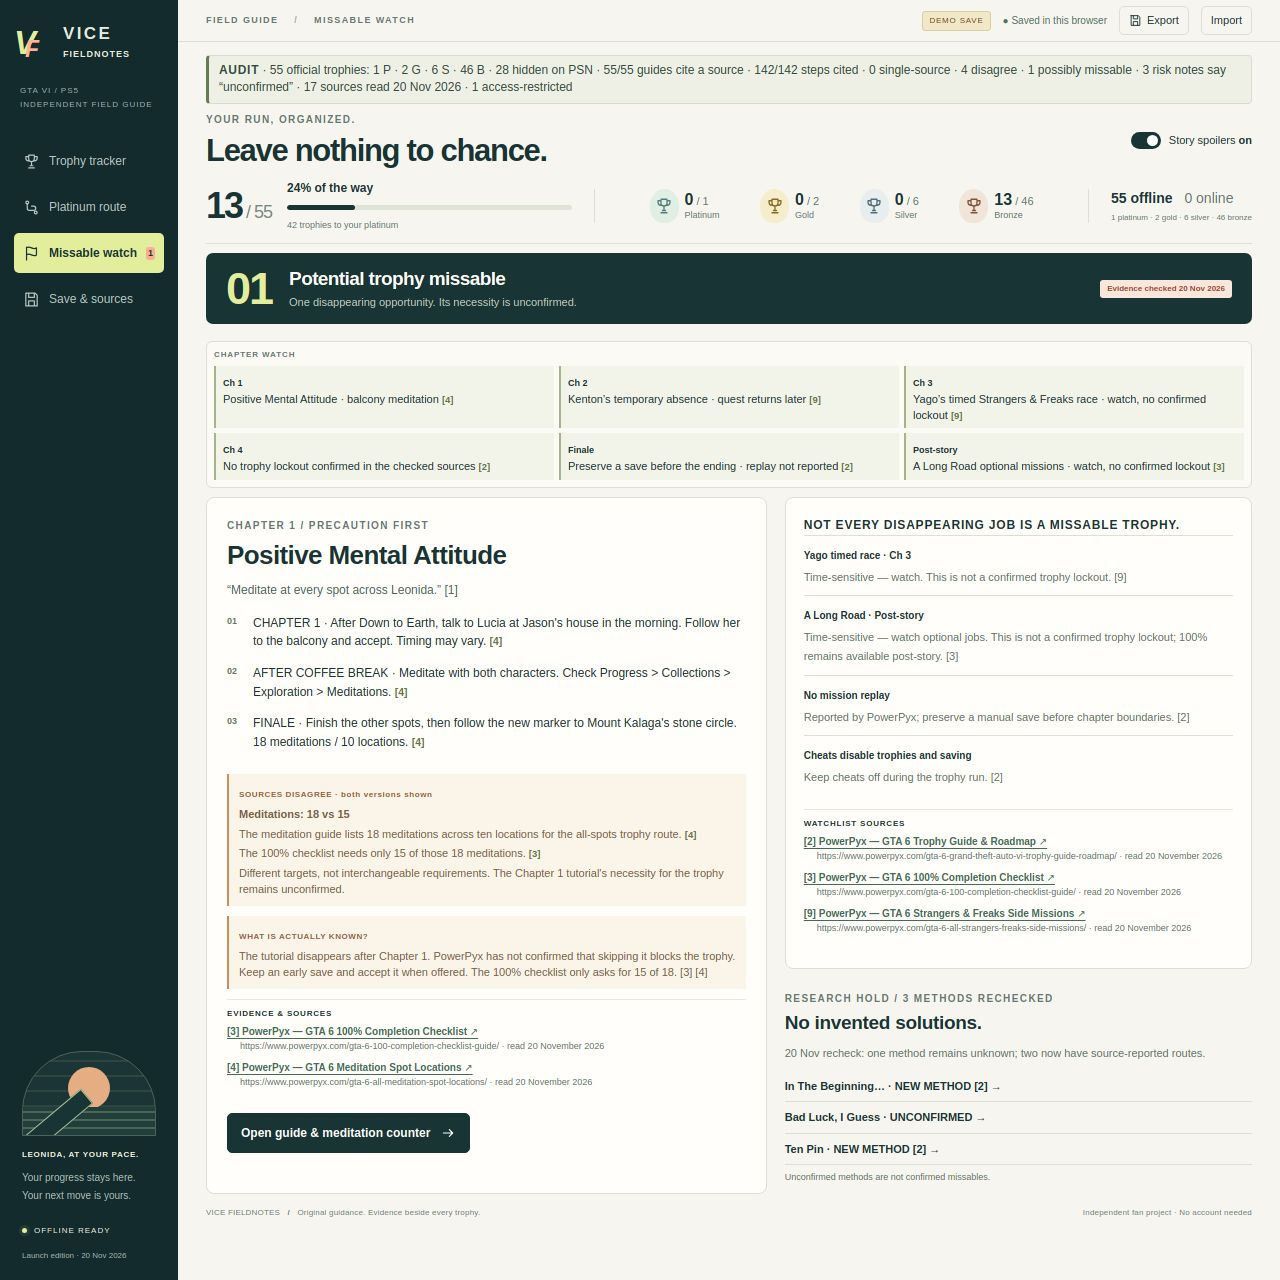
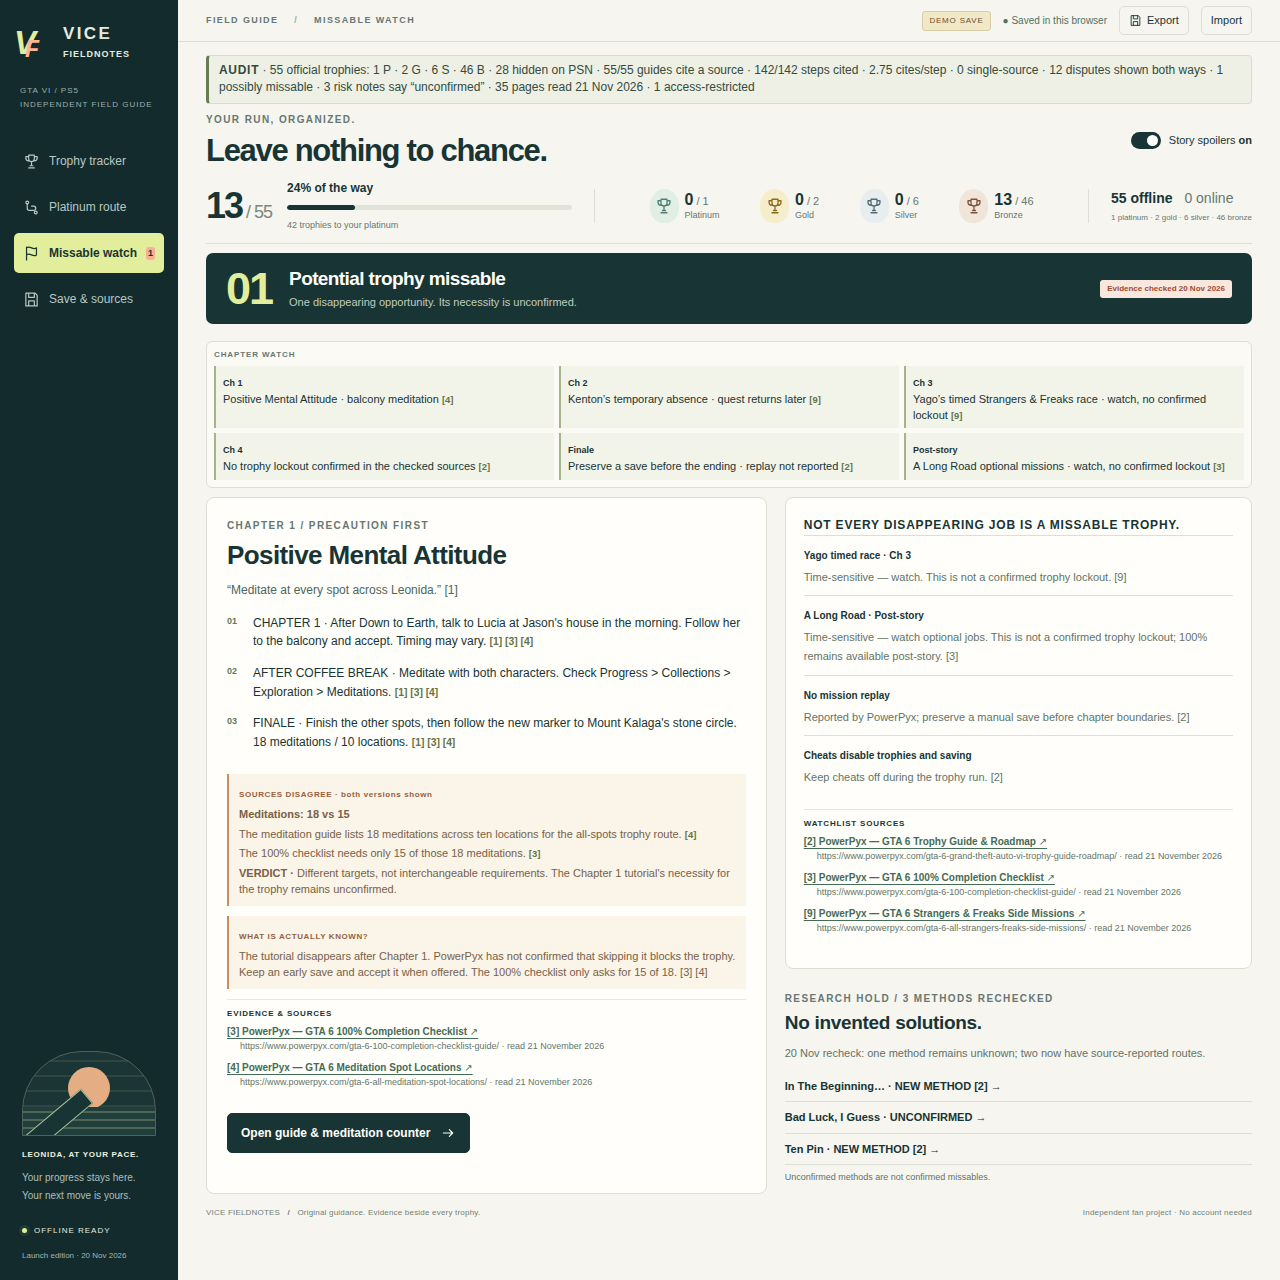
Finish R3 trophy guide evidence pass

diff --git a/app/app.js b/app/app.js
@@ -23,7 +23,7 @@ let view = location.hash.slice(1).split('/')[0] || 'tracker';
 let selected = Number(location.hash.split('/')[1]) || 28;
 let kind = 'all', grade = 'all', earnedFilter = 'all', query = '';
 let toastTimer;
-const sourceOrder = ['official','roadmap','completion','meditation','range','drone','races','cards','strangers','andy','andyFinal','billy','tyrone','bret','banks','garages','moses','landmarks'];
+const sourceOrder = ['official','roadmap','completion','meditation','range','drone','races','cards','strangers','andy','andyFinal','billy','tyrone','bret','banks','garages','moses','landmarks','outputlag','keengamer','checklists','checkMeditation','pcgamer','gamesradar','gtaside','techwiser','gtaboom','pixelforge','pushsquare','challenges','bankJobs','cardSets','gtabase','gtabase100','gtabaseStrangers','gtawiki'];
 
 function notify(message) {
   const toast = document.querySelector('#toast');
@@ -46,7 +46,7 @@ function citations(keys = []) { return [...keys].sort((a,b) => sourceNumber(a)-s
 function sourceLink(key) {
   const source = data.sources[key];
   const title = source.name.replace(' · ', ' — GTA 6 ');
-  return `<a href="${escape(source.url)}" target="_blank" rel="noopener noreferrer">[${sourceNumber(key)}] ${escape(title)} ↗</a><span>${escape(source.url)} · ${key === 'official' ? 'checked 20 November 2026; HTTP 403, kit metadata retained' : 'read 20 November 2026'}</span>`;
+  return `<a href="${escape(source.url)}" target="_blank" rel="noopener noreferrer">[${sourceNumber(key)}] ${escape(title)} ↗</a><span>${escape(source.url)} · ${key === 'official' ? 'checked 21 November 2026; HTTP 403, kit metadata retained' : 'read 21 November 2026'}</span>`;
 }
 function sourceEntries(keys) {
   return [...keys].sort((a,b) => sourceNumber(a)-sourceNumber(b)).map(key => `<div class="source-entry">${sourceLink(key)}</div>`).join('');
@@ -54,16 +54,19 @@ function sourceEntries(keys) {
 function numberedCitations(numbers = []) {
   return [...new Set(numbers)].sort((a,b) => a-b).map(n => `[${n}]`).join(' ');
 }
+function stepCitations(t, step) {
+  return step.cites.length > 1 ? step.cites : t.sources.map(sourceNumber);
+}
 function guideSteps(t) {
-  return `<ol class="guide-steps">${t.steps.map(s => `<li>${escape(s.text)} <span class="citation">${numberedCitations(s.cites)}</span></li>`).join('')}</ol>`;
+  return `<ol class="guide-steps">${t.steps.map(s => `<li>${escape(s.text)} <span class="citation">${numberedCitations(stepCitations(t,s))}</span></li>`).join('')}</ol>`;
 }
 function disagreement(t) {
   if (!t.disagree) return '';
-  return `<div class="risk-note disagreement"><strong>SOURCES DISAGREE · both versions shown</strong><p><b>${escape(t.disagree.topic)}</b></p>${t.disagree.versions.map(v => `<p>${escape(v.text)} <span class="citation">${numberedCitations(v.cites)}</span></p>`).join('')}<p>${escape(t.disagree.note)}</p></div>`;
+  return `<div class="risk-note disagreement"><strong>SOURCES DISAGREE · both versions shown</strong><p><b>${escape(t.disagree.topic)}</b></p>${t.disagree.versions.map(v => `<p>${escape(v.text)} <span class="citation">${numberedCitations(v.cites)}</span></p>`).join('')}<p><b>VERDICT ·</b> ${escape(t.disagree.note)}</p></div>`;
 }
 function sourceCoverage(key) { return trophies.filter(t => t.sources.includes(key)).length; }
 function sourcesRail() {
-  return `<aside class="sources-rail panel" aria-label="Sources and guide coverage"><div class="panel-heading"><h2>SOURCES / ${sourceOrder.length}</h2></div><p class="rail-intro">Every step cites its evidence.<br>Scroll for all 18 pages.</p><div class="rail-entries">${sourceOrder.map(key => `<div>${sourceEntries([key])}<small>${key === 'official' ? 'Checked 20 Nov 2026 · HTTP 403' : 'Read 20 Nov 2026'}</small><p>cited by ${sourceCoverage(key)} of ${trophies.length} guides</p></div>`).join('')}</div></aside>`;
+  return `<aside class="sources-rail panel" aria-label="Sources and guide coverage"><div class="panel-heading"><h2>SOURCES / ${sourceOrder.length}</h2></div><p class="rail-intro">Every step cites its evidence.<br>Scroll for all ${sourceOrder.length} pages.</p><div class="rail-entries">${sourceOrder.map(key => `<div>${sourceEntries([key])}<small>${key === 'official' ? 'Checked 21 Nov 2026 · HTTP 403' : 'Read 21 Nov 2026'}</small><p>cited by ${sourceCoverage(key)} of ${trophies.length} guides</p></div>`).join('')}<section class="blocked-list"><b>BLOCKED / NOT CITED</b><p>Exophase official-list endpoint · HTTP 403 on recheck; kit metadata retained.</p></section></div></aside>`;
 }
 function auditStrip() {
   const grades = Object.fromEntries(['platinum','gold','silver','bronze'].map(g => [g, trophies.filter(t => t.grade === g).length]));
@@ -71,12 +74,13 @@ function auditStrip() {
   const steps = trophies.flatMap(t => t.steps ?? []);
   const readSources = Object.values(data.sources).filter(s => s.check === 'Read successfully').length;
   const restrictedSources = sourceOrder.length - readSources;
-  const citedSteps = trophies.reduce((total,t) => total + (t.steps ?? []).filter(s => s.cites?.length && s.cites.every(n => t.sources.includes(sourceOrder[n-1]))).length, 0);
+  const citedSteps = trophies.reduce((total,t) => total + (t.steps ?? []).filter(s => stepCitations(t,s).length && stepCitations(t,s).every(n => t.sources.includes(sourceOrder[n-1]))).length, 0);
   const singleSource = trophies.filter(t => new Set(t.sources).size === 1).length;
   const disagreements = trophies.filter(t => t.disagree).length;
   const potential = trophies.filter(t => t.missable === 'potential').length;
   const unconfirmed = trophies.filter(t => (t.risk ?? '').toLowerCase().includes('unconfirmed')).length;
-  return `<div class="audit-strip"><b>AUDIT</b> · ${trophies.length} official trophies: ${grades.platinum} P · ${grades.gold} G · ${grades.silver} S · ${grades.bronze} B · 28 hidden on PSN · ${covered}/${trophies.length} guides cite a source · ${citedSteps}/${steps.length} steps cited · ${singleSource} single-source · ${disagreements} disagree · ${potential} possibly missable · ${unconfirmed} risk notes say “unconfirmed” · ${readSources} sources read 20 Nov 2026 · ${restrictedSources} access-restricted</div>`;
+  const citeAverage = steps.length ? (trophies.reduce((n,t) => n + t.steps.reduce((sum,s) => sum + stepCitations(t,s).length,0),0) / steps.length).toFixed(2) : '0.00';
+  return `<div class="audit-strip"><b>AUDIT</b> · ${trophies.length} official trophies: ${grades.platinum} P · ${grades.gold} G · ${grades.silver} S · ${grades.bronze} B · 28 hidden on PSN · ${covered}/${trophies.length} guides cite a source · ${citedSteps}/${steps.length} steps cited · ${citeAverage} cites/step · ${singleSource} single-source · ${disagreements} disputes shown both ways · ${potential} possibly missable · ${unconfirmed} risk notes say “unconfirmed” · ${readSources} pages read 21 Nov 2026 · ${restrictedSources} access-restricted</div>`;
 }
 function stageTotals() {
   return [1, 2, 3, 4, 5].map(stage => {
@@ -84,6 +88,13 @@ function stageTotals() {
     const earned = group.filter(t => save.earned.includes(t.id)).length;
     return `<span>S${stage} <b>${earned}/${group.length}</b></span>`;
   }).join('');
+}
+function stageCounters(stage) {
+  const ids = {1:[28],2:[54,55],3:[26,34,52],4:[15,16,17,18,19,30,31,32,35,40,42,43],5:[25,48,53]}[stage];
+  return ids.map(id => {
+    const trophy = trophies.find(t => t.id === id);
+    return `${format(save.counts[id] ?? 0)}/${format(trophy.target)} ${trophy.unit}`;
+  }).join(' · ');
 }
 function routeOrderedTrophies() {
   const protect = trophies.find(t => t.id === 28);
@@ -106,7 +117,7 @@ function nextUp(compact = false) {
 function trophyChips(stage) {
   return trophies.filter(t => t.stage === stage).map(t => {
     const earned = save.earned.includes(t.id);
-    return `<span class="trophy-chip ${t.grade} ${earned ? 'earned' : ''}" title="${escape(t.name)}"><i>${t.grade[0].toUpperCase()}</i>${earned ? '<span class="chip-check">✓</span>' : ''}<b>${escape(displayName(t))}</b></span>`;
+    return `<span class="trophy-chip ${t.grade} ${earned ? 'earned' : ''}" title="${escape(t.name)}"><i>${t.grade[0].toUpperCase()}</i>${earned ? '<span class="chip-check">✓</span>' : ''}<b>${escape(displayName(t))}</b>${t.missable === 'potential' ? '<em class="chip-missable">MISSABLE</em>' : ''}</span>`;
   }).join('');
 }
 function badge(trophy) { return `<span class="medal ${trophy.grade}" title="${trophy.grade}">${icon('trophy')}</span>`; }
@@ -170,7 +181,22 @@ function renderGuide() {
 function renderRoadmap() {
   const done = save.tasks.length;
   const next = nextTrophy();
-  document.querySelector('#view').innerHTML = `<div class="route-intro"><p><b>One playthrough planned.</b> Story first, overlap the grind, then clean up.<span>Overall route estimate: ~200 h · PowerPyx estimate, not a guarantee ${citations(['roadmap'])}</span></p><div><b>${done} / 5</b> stages checked</div></div>${next ? `<div class="route-next"><b>NEXT UP</b><span>${escape(displayName(next.trophy))} · Stage ${next.trophy.stage}: ${escape(next.stage.title)}</span><small>${escape(next.reason)}</small></div>` : '<div class="route-next"><b>ROUTE COMPLETE</b><span>All 55 trophies marked earned.</span></div>'}<div class="roadmap-grid"><section class="route-stages">${routeStages.map((stage,index) => { const stageNo=index+1, group=trophies.filter(t=>t.stage===stageNo), earned=group.filter(t=>save.earned.includes(t.id)).length; const watch=stageNo===1?'POTENTIAL MISSABLE':stageNo===2?'TIMED WATCH · CH 3 YAGO RACE':stageNo===4?'POST-STORY WATCH · A LONG ROAD':''; return `<article class="route-card ${save.tasks.includes(stage.id) ? 'done' : ''}"><label class="route-check"><input type="checkbox" data-task="${stage.id}" ${save.tasks.includes(stage.id) ? 'checked' : ''} aria-label="Complete ${escape(stage.title)}"></label><div><p class="eyebrow">${stage.label}<span>${stage.timing}</span></p><h2>${stage.title}<small>${earned}/${group.length} trophies</small></h2><p>${stage.spoiler && !save.spoilers ? 'Story mission details are hidden. Finish the main narrative, preserve chapter saves, then return for post-story cleanup. Enable spoilers to see the named mission route.' : escape(stage.body)} <span class="citation">${citations([stage.source])}</span></p><div class="trophy-chips">${trophyChips(stageNo)}</div><div class="route-meta">${watch ? `<span class="tag danger">${watch}</span>` : ''}<span class="route-hours">${stage.hours} · ${citations(['roadmap'])}</span></div><div class="route-links"><div class="source-entry">${sourceLink(stage.source)}</div><button data-open="${stage.link}">Open related guide →</button></div></div></article>`; }).join('')}</section><aside class="route-side"><section class="target-panel panel"><div class="panel-heading"><h2>TROPHY ≠ 100%</h2>${icon('route')}</div><p class="table-intro">Plan for the higher target to avoid a second sweep.</p><table><thead><tr><th>Objective</th><th>Trophy</th><th>100% route</th></tr></thead><tbody>${targetComparison.map(([label,a,b,id])=>`<tr><th><button data-open="${id}">${label}</button></th><td>${a}</td><td>${b}</td></tr>`).join('')}</tbody></table><div class="table-source"><div class="source-entry">${sourceLink('completion')}</div><p>Plus: 100 optional tasks, 100 animals studied, all 39 gang operations and all 15 Bret Target Decks. Follow the in-game checklist for every category.</p></div></section><div class="mini-warning"><strong>! ONE POTENTIAL MISSABLE</strong><p>Chapter 1’s balcony meditation disappears. Whether it is necessary for the trophy is unconfirmed ${citations(['meditation'])}.</p><button data-open="28">Protect your run →</button></div></aside></div>`;
+  document.querySelector('#view').innerHTML = `<section class="target-panel panel route-targets"><div class="panel-heading"><h2>TROPHY ≠ 100%</h2>${icon('route')}</div><p class="table-intro">Plan for the higher target to avoid a second sweep.</p><table><thead><tr><th>Objective</th><th>Trophy</th><th>100% route</th></tr></thead><tbody>${targetComparison.map(([label,a,b,id])=>`<tr><th><button data-open="${id}">${label}</button></th><td>${a}</td><td>${b}</td></tr>`).join('')}</tbody></table><div class="table-source"><div class="source-entry">${sourceLink('completion')}</div><p>Plus: 100 optional tasks, 100 animals studied, all 39 gang operations and all 15 Bret Target Decks. Follow the in-game checklist for every category.</p></div></section><div class="route-intro"><p><b>One playthrough planned.</b> Story first, overlap the grind, then clean up.<span>Overall route estimate: ~200 h · PowerPyx estimate, not a guarantee ${citations(['roadmap'])}</span></p><div><b>${done} / 5</b> stages checked</div></div>${next ? `<div class="route-next"><b>NEXT UP</b><span>${escape(displayName(next.trophy))} · Stage ${next.trophy.stage}: ${escape(next.stage.title)}</span><small>${escape(next.reason)}</small></div>` : '<div class="route-next"><b>ROUTE COMPLETE</b><span>All 55 trophies marked earned.</span></div>'}<div class="roadmap-grid"><section class="route-stages">${routeStages.map((stage,index) => { const stageNo=index+1, group=trophies.filter(t=>t.stage===stageNo), earned=group.filter(t=>save.earned.includes(t.id)).length; const watch=stageNo===1?'POTENTIAL MISSABLE':stageNo===2?'TIMED WATCH · CH 3 YAGO RACE':stageNo===4?'POST-STORY WATCH · A LONG ROAD':''; return `<article class="route-card ${save.tasks.includes(stage.id) ? 'done' : ''}"><label class="route-check"><input type="checkbox" data-task="${stage.id}" ${save.tasks.includes(stage.id) ? 'checked' : ''} aria-label="Complete ${escape(stage.title)}"></label><div><p class="eyebrow">${stage.label}<span>${stage.timing}</span></p><h2>${stage.title}<small>${earned}/${group.length} trophies</small></h2><p>${stage.spoiler && !save.spoilers ? 'Story mission details are hidden. Finish the main narrative, preserve chapter saves, then return for post-story cleanup. Enable spoilers to see the named mission route.' : escape(stage.body)} <span class="citation">${citations([stage.source])}</span></p><div class="stage-counter">COLLECTIONS · ${stageCounters(stageNo)}</div><div class="trophy-chips">${trophyChips(stageNo)}</div><div class="route-meta">${watch ? `<span class="tag danger">${watch}</span>` : ''}<span class="route-hours">${stage.hours} · ${citations(['roadmap'])}</span></div><div class="route-links"><div class="source-entry">${sourceLink(stage.source)}</div><button data-open="${stage.link}">Open related guide →</button></div></div></article>`; }).join('')}</section><aside class="route-side"><div class="mini-warning"><strong>! ONE POTENTIAL MISSABLE</strong><p>Chapter 1’s balcony meditation disappears. Whether it is necessary for the trophy is unconfirmed ${citations(['meditation'])}.</p><button data-open="28">Protect your run →</button></div></aside></div>`;
+}
+
+function arrangeRoadmap() {
+  const view = document.querySelector('#view');
+  const targets = view.querySelector('.target-panel');
+  if (targets) view.prepend(targets);
+  routeStages.forEach((stage,index) => {
+    const card = view.querySelectorAll('.route-card')[index];
+    const chips = card?.querySelector('.trophy-chips');
+    if (!chips) return;
+    const counter = document.createElement('div');
+    counter.className = 'stage-counter';
+    counter.textContent = `COLLECTIONS · ${stageCounters(index + 1)}`;
+    chips.before(counter);
+  });
 }
 
 function renderMissables() {
